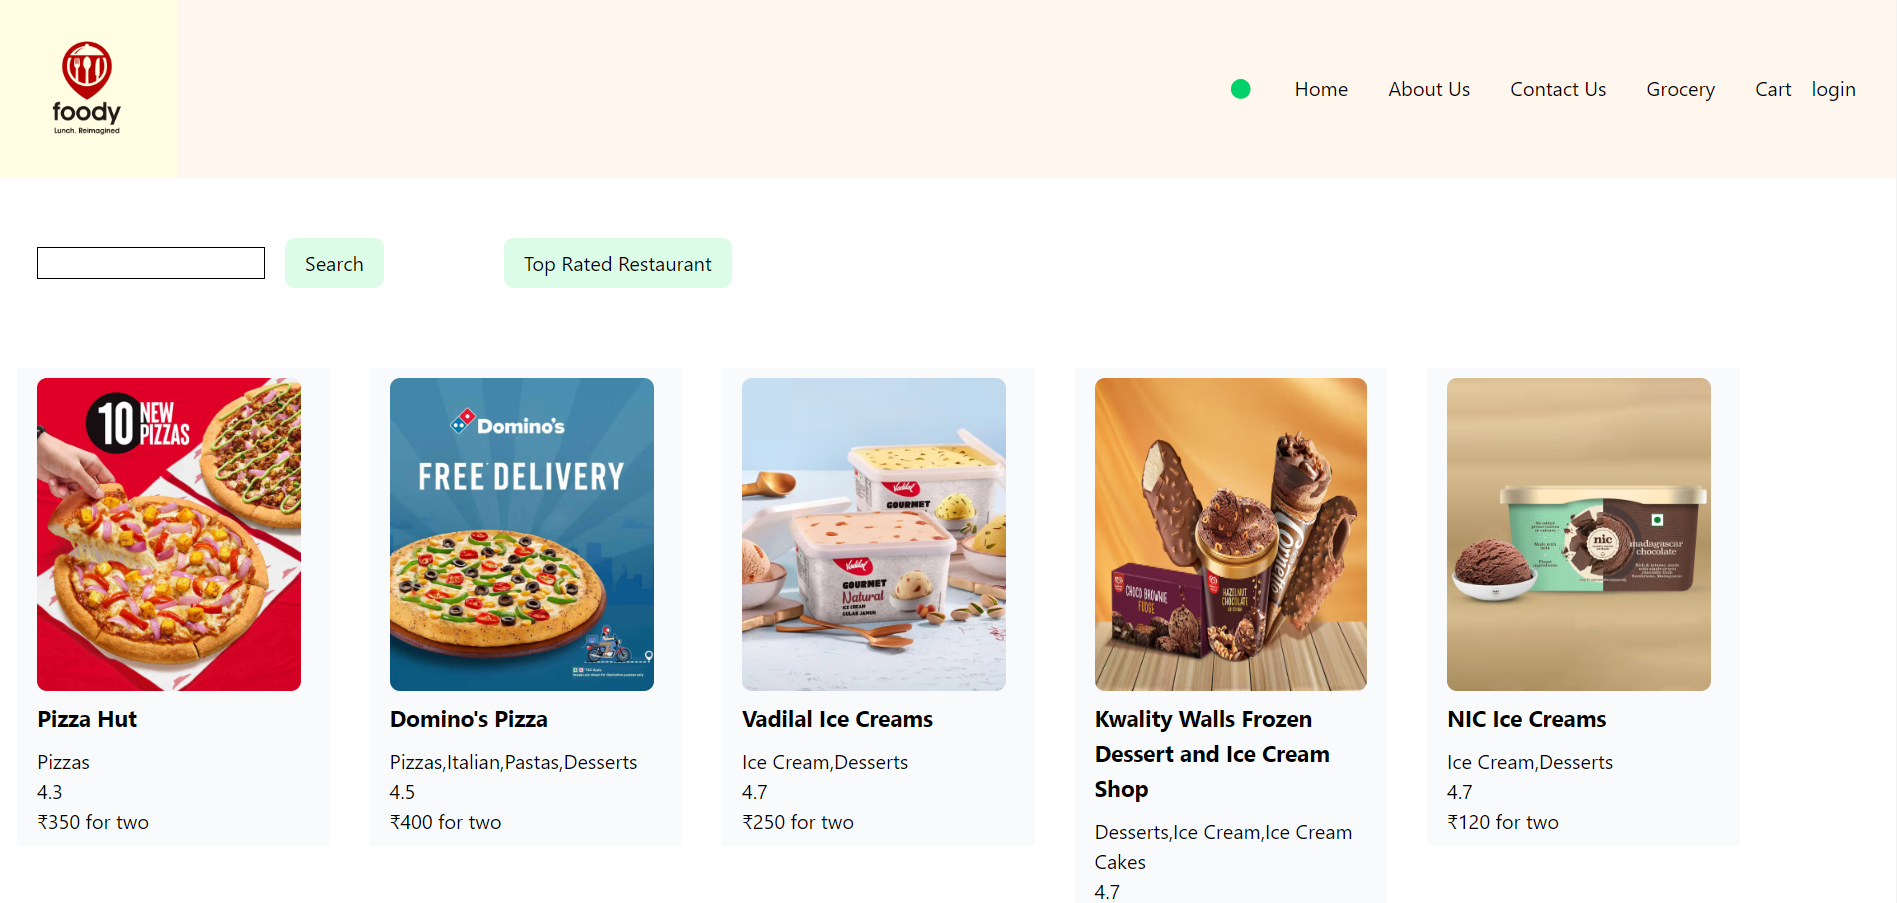
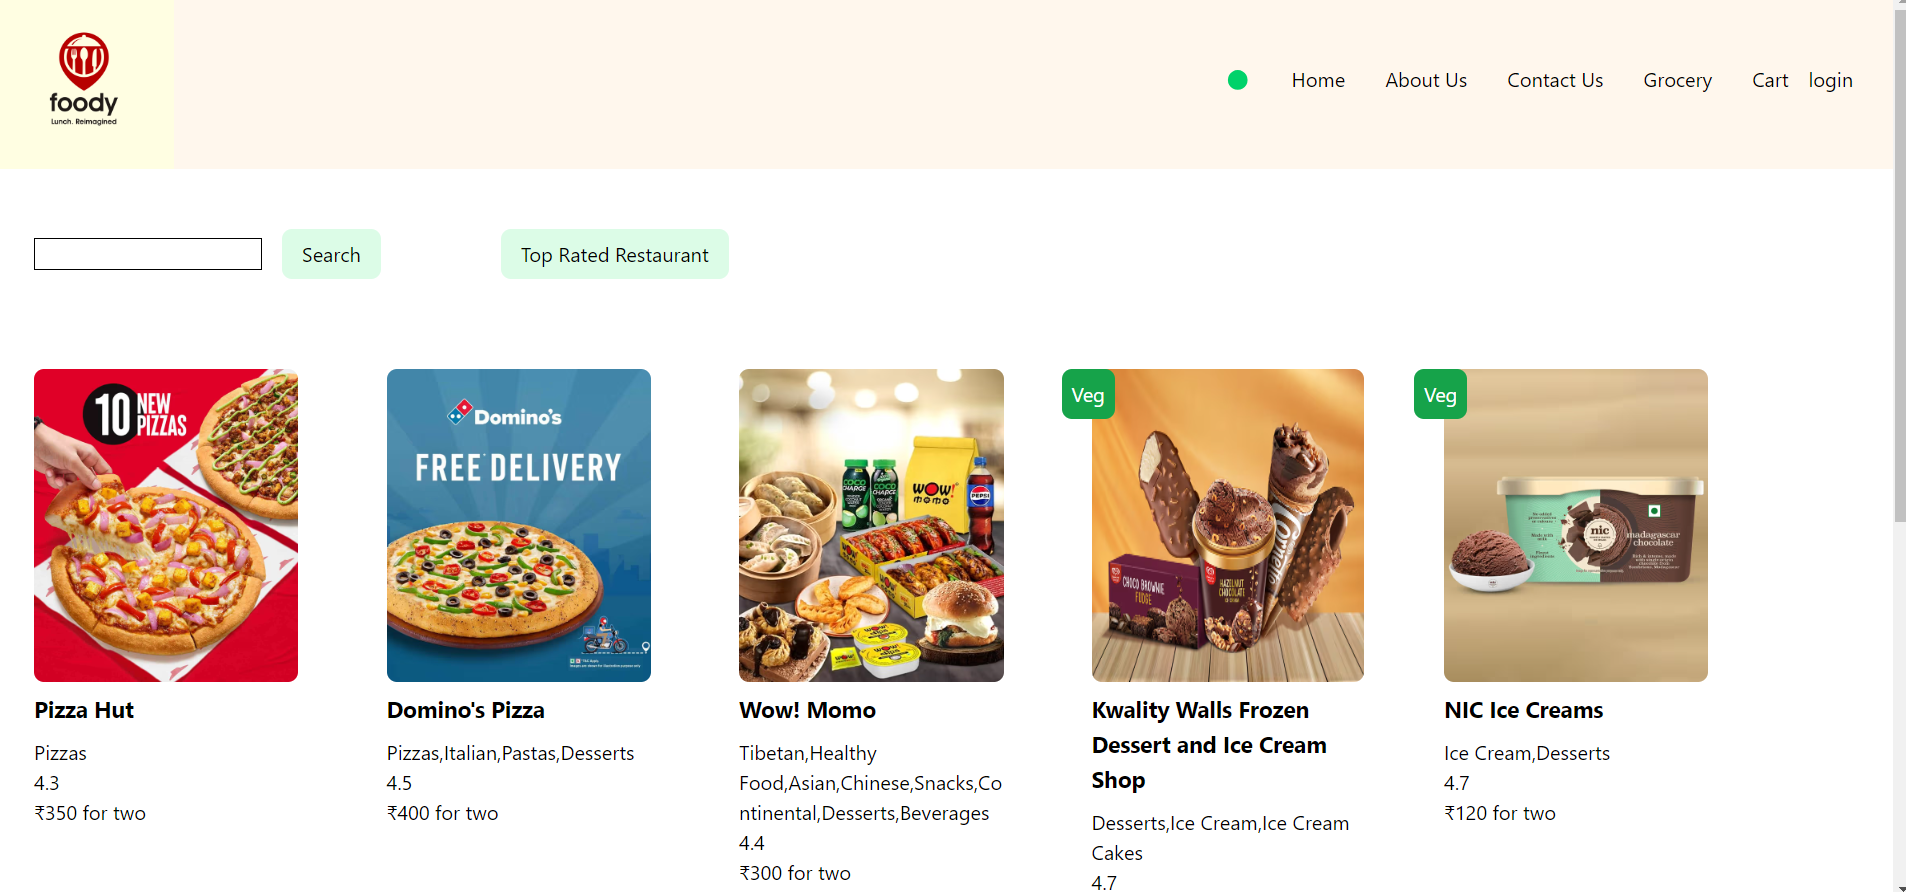
Episode-11

diff --git a/src/components/Body.js b/src/components/Body.js
@@ -1,15 +1,19 @@
-import RestaurantCard from "./RestaurantCard";
-import restaurants from "../utils/mockData";
-import { useEffect, useState } from "react";
+import RestaurantCard,{vegRestaurantLabel} from "./RestaurantCard";
+import { useContext, useEffect, useState } from "react";
 import Shimmer from "./Shimmer";
 import { SWIGGY_GET_RESTAURANT_API } from "../utils/constants";
 import { Link } from "react-router-dom";
 import useOnlineStatus from "../utils/useOnlineStatus";
+import UserContext from "../utils/UserContext";
 
 const Body = () =>{
     const [listOfRestaurant, setListOfRestaurant] = useState([]);
     const [filteredRestaurant, setFilteredRestaurant] = useState([]);
     const [searchText, setSearchText] = useState("");
+
+    const VegRestaurant = vegRestaurantLabel(RestaurantCard);
+    
+
     useEffect(()=>{
         fetchData()
     },[]);
@@ -18,8 +22,6 @@ const Body = () =>{
         const data = await fetch(SWIGGY_GET_RESTAURANT_API);
         
         const json = await data.json();
-        console.log("printing restaurantList :");
-        console.log(json);
         setListOfRestaurant(json?.data?.cards[4]?.card?.card?.gridElements?.infoWithStyle?.restaurants);
         setFilteredRestaurant(json?.data?.cards[4]?.card?.card?.gridElements?.infoWithStyle?.restaurants);
     }
@@ -33,7 +35,7 @@ const Body = () =>{
             </h1>
         );
     }
-
+    const {loggedInUser, setUserInfo} = useContext(UserContext);
     return listOfRestaurant === null ? ( <Shimmer /> ):(
         <div className="body">
             <div className="flex">
@@ -55,12 +57,25 @@ const Body = () =>{
                     Top Rated Restaurant
                 </button>
                 </div>
+                <div className="p-4 m-4 flex items-center">
+                    <label>UserName : </label>
+                    <input className="border border-black ml-2" 
+                            value={loggedInUser} 
+                            onChange={(e)=>setUserInfo(e.target.value)}
+                    />
+                </div>
             </div>
             <div className="flex flex-wrap">
                 {
                     filteredRestaurant.map(
                         (restaurant) => (
-                            <Link className="restaurantCard" key={restaurant.info.id} to={"/restaurants/"+restaurant.info.id}><RestaurantCard resData={restaurant} /></Link>
+                            <Link 
+                                key={restaurant.info.id} 
+                                to={"/restaurants/"+restaurant.info.id}
+                            >
+                                {restaurant.info.veg ? <VegRestaurant resData={restaurant}/> : <RestaurantCard resData={restaurant} />}
+                                
+                            </Link>
                         )
                     )
                 }

diff --git a/src/components/RestaurantMenu.js b/src/components/RestaurantMenu.js
@@ -1,12 +1,16 @@
 import Shimmer from "./Shimmer";
 import { useParams } from "react-router-dom";
 import useRestaurantMenu from "../utils/useRestaurantMenu";
+import RestaurantCategory from "./RestaurantCategory";
+import { useState } from "react";
 
 const RestaurantMenu = () => {
 
     const { resId } = useParams();
 
     const restaurantInfo = useRestaurantMenu(resId);
+
+    const [showIndex, setShowIndex] = useState(0);
 
     if(restaurantInfo === null){
         return <Shimmer />
@@ -16,14 +20,23 @@ const RestaurantMenu = () => {
 
     const {itemCards} = restaurantInfo?.cards[4]?.groupedCard?.cardGroupMap?.REGULAR?.cards[2]?.card?.card;
 
+    const categories = restaurantInfo?.cards[4]?.groupedCard?.cardGroupMap?.REGULAR?.cards.filter((category)=>category?.card?.card?.["@type"] === "type.googleapis.com/swiggy.presentation.food.v2.ItemCategory");
+    console.log(categories);
     return(
-        <div>
-            <h1>{name}</h1>
-            <p>{cuisines.join(",")+ " | "+costForTwoMessage}</p>
-            <h4>Menu Items :</h4>
-            <ul>
-                {itemCards.map(item=> <li key={item.card.info.id}>{item.card.info.name+" - Rs - "+item.card.info.price/100}</li>)}
-            </ul>
+        <div className="text-center">
+            <h1 className="font-bold my-10 text-2xl">{name}</h1>
+            <p className="font-bold text-lg">{cuisines.join(",")+ " | "+costForTwoMessage}</p>
+            
+            {/* categories accordian which is collapsable */}
+            {categories.map((category, index)=>
+                <RestaurantCategory 
+                    key={category?.card?.card?.title} 
+                    data={category?.card?.card} 
+                    showItems={index === showIndex ? true : false}
+                    setShowIndex = {() => setShowIndex(index)}
+                />)
+            }
+
         </div>
     );
 }

diff --git a/src/components/ItemList.js b/src/components/ItemList.js
@@ -1,0 +1,27 @@
+import { CDN_URL } from "../utils/constants";
+const ItemList = ({items}) =>{
+    console.log(items)
+    return(
+        <div>
+            {items.map((item)=>(
+                <div key={item.card.info.id} className="p-2 m-2 border-gray-200 border-b-2 text-left flex justify-between">
+                    <div className="w-9/12">
+                        <div>
+                            <span className="font-medium">{item.card.info.name}</span>
+                            <p className="font-medium"> ₹ {item.card.info.price ? (item.card.info.price/100) : (item.card.info.defaultPrice/100)}</p>
+                        </div>
+                        <p className="text-xs pt-5">{item.card.info.description}</p>
+                    </div>
+                    <div className="w-3/12">
+                        <button className="bg-white text-green-600 absolute border px-2 py-1 font-bold text-lg">Add +</button>
+                        <img src={CDN_URL+item?.card?.info?.imageId} className="w-full"/>
+                        
+                    </div>
+
+                </div>
+            ))}
+        </div>
+    );
+}
+
+export default ItemList;

diff --git a/src/App.js b/src/App.js
@@ -1,4 +1,4 @@
-import React,{lazy,Suspense} from "react";
+import React,{lazy,Suspense, useEffect, useState} from "react";
 import ReactDOM from "react-dom/client";
 import Header from "./components/Header";
 import Body from "./components/Body";
@@ -7,6 +7,7 @@ import Contact from "./components/Contact";
 import About from "./components/About";
 import Error from "./components/Error";
 import RestaurantMenu from "./components/RestaurantMenu";
+import UserContext from "./utils/UserContext";
 
 //Chunking
 //Code splitting
@@ -18,11 +19,23 @@ const Grocery = lazy(()=>import("./components/Grocery"));
 
 const AppLayout = () =>{
 
+  const [userInfo, setUserInfo] = useState();
+
+  useEffect(()=>{
+    //Make an API call and send userName
+    const data = {
+      name : "Rahul Jha"
+    }
+    setUserInfo(data.name);
+  },[])
+
     return(
+      <UserContext.Provider value={{ loggedInUser : userInfo, setUserInfo }}>
         <div className="app">
             <Header />
             <Outlet />
         </div>
+      </UserContext.Provider>
     )
 }
 

diff --git a/src/components/Header.js b/src/components/Header.js
@@ -1,12 +1,16 @@
-import { useState } from "react";
+import { useContext, useState } from "react";
 import { LOGO_URL } from "../utils/constants";
 import { Link } from "react-router-dom";
 import useOnlineStatus from "../utils/useOnlineStatus";
+import UserContext from "../utils/UserContext";
 
 const Header = () =>{
 
     const [btnNameReact, setBtnNameReact] = useState("login");
     const onlineStatus = useOnlineStatus();
+    const data = useContext(UserContext);
+    console.log(data);
+
     return(
         <div className="flex justify-between bg-orange-50">
             <div className="logoContainer">
@@ -23,6 +27,7 @@ const Header = () =>{
                     <button className="login" onClick={()=>{
                         btnNameReact === "login" ? setBtnNameReact("logout") : setBtnNameReact("login")
                     }}>{btnNameReact}</button>
+                    <li className="ml-2">{data.loggedInUser}</li>
                 </ul>
             </div>
         </div>

diff --git a/src/components/RestaurantCard.js b/src/components/RestaurantCard.js
@@ -2,6 +2,7 @@ import { CDN_URL } from "../utils/constants";
 
 const RestaurantCard = (props) =>{
     
+    console.log(props);
     const {resData} = props;
     const {name, cuisines, avgRating, cloudinaryImageId, costForTwo} = resData.info;
     return(    
@@ -15,10 +16,22 @@ const RestaurantCard = (props) =>{
                 }
             />
             <h3 className="py-2 font-bold text-lg">{name}</h3>
-            <h4 className="cuisine">{cuisines.join(",")}</h4>
+            <h4 className="break-words">{cuisines.join(",")}</h4>
             <h4>{avgRating}</h4>
             <h4>{costForTwo}</h4>
         </div>
     )
+}
+
+export const vegRestaurantLabel = (RestaurantCard) =>{
+
+    return (props) =>{
+        return(
+            <div>
+                <label className="absolute bg-green-600 text-white m-2 p-2 rounded-lg">Veg</label>
+                <RestaurantCard {...props}/>
+            </div>
+        );
+    }
 }
 export default RestaurantCard;

diff --git a/src/components/RestaurantCategory.js b/src/components/RestaurantCategory.js
@@ -1,0 +1,25 @@
+import ItemList from "./ItemList";
+import { useState } from "react";
+
+const RestaurantCategory = ({data, showItems, setShowIndex}) =>{
+    console.log(data);
+    const handleClick = () =>{
+        setShowIndex();
+    }
+
+    return(
+        <div className="w-6/12 mx-auto my-6 bg-gray-50 shadow-lg p-4">
+            {/*Header */}
+            <div className="flex justify-between cursor-pointer" onClick={handleClick}>
+                <span className="font-bold text-lg">{data?.title}({data.itemCards.length})</span>
+                <span>⬇</span>
+            </div>
+            <div>
+                {/*Accordian Body */}
+                {showItems && <ItemList items={data.itemCards}/>}
+            </div>
+        </div>
+    );
+}
+
+export default RestaurantCategory;

diff --git a/src/utils/UserContext.js b/src/utils/UserContext.js
@@ -1,0 +1,7 @@
+import { createContext } from "react";
+
+const UserContext = createContext({
+    loggedInUser : "Default User",
+});
+
+export default UserContext;
